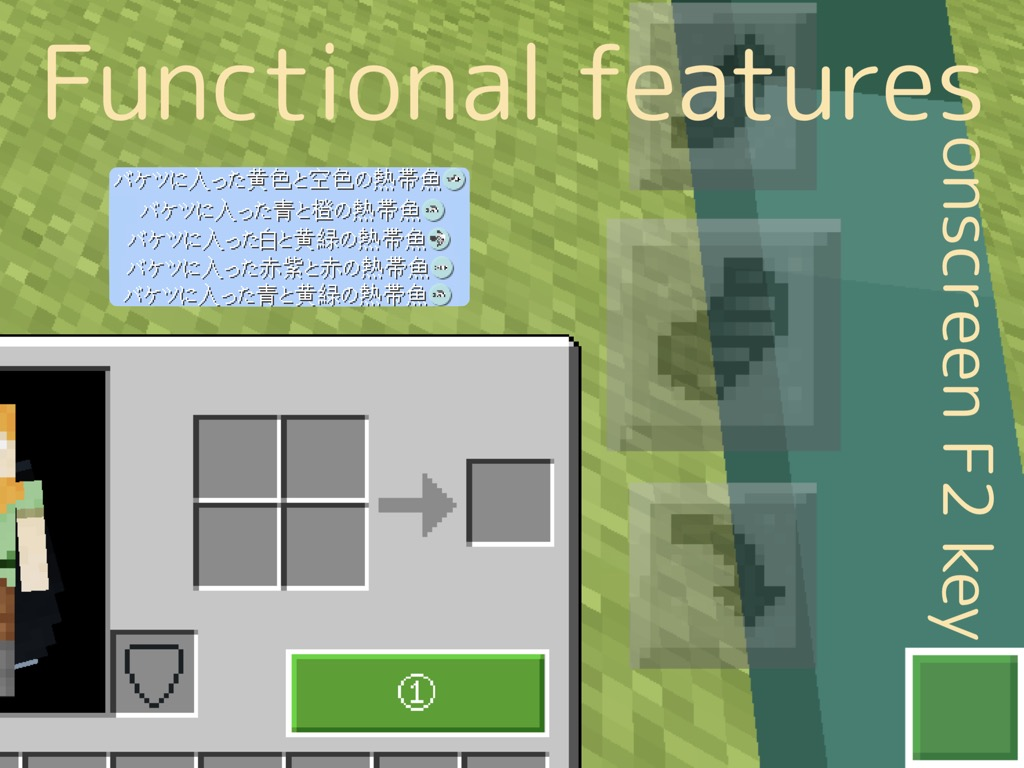
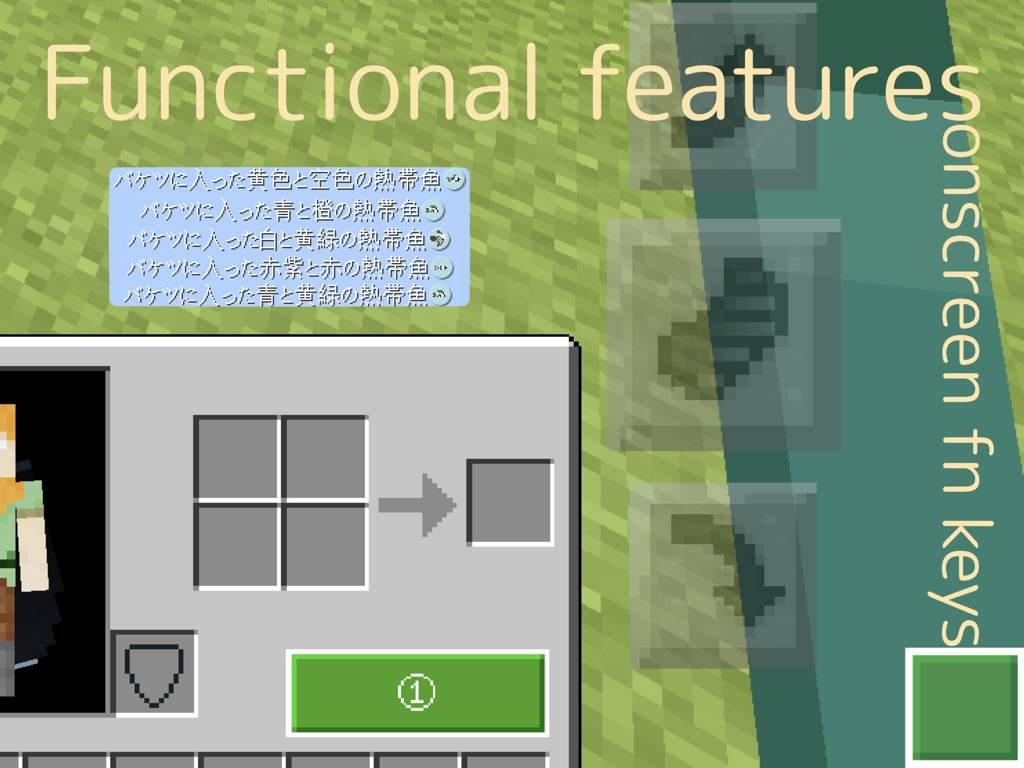
-

Changed region(s): [[0.9062, 0.1562, 0.9688, 0.8438]]

diff --git a/docs/index.html b/docs/index.html
@@ -79,7 +79,7 @@
 				<li>Java版のような水の色と透明度</li>
 				<li>Java版のテクスチャ</li>
 				<li>さらに見やすくなったガラス</li>
-				<li>オンスクリーンTabキー&F2キー</li>
+				<li>オンスクリーンTabキー&fnキー</li>
 				<li>熱帯魚の絵文字</li>
 				<li>半透明のアイテム説明欄</li>
 				<li>and more…</li>
